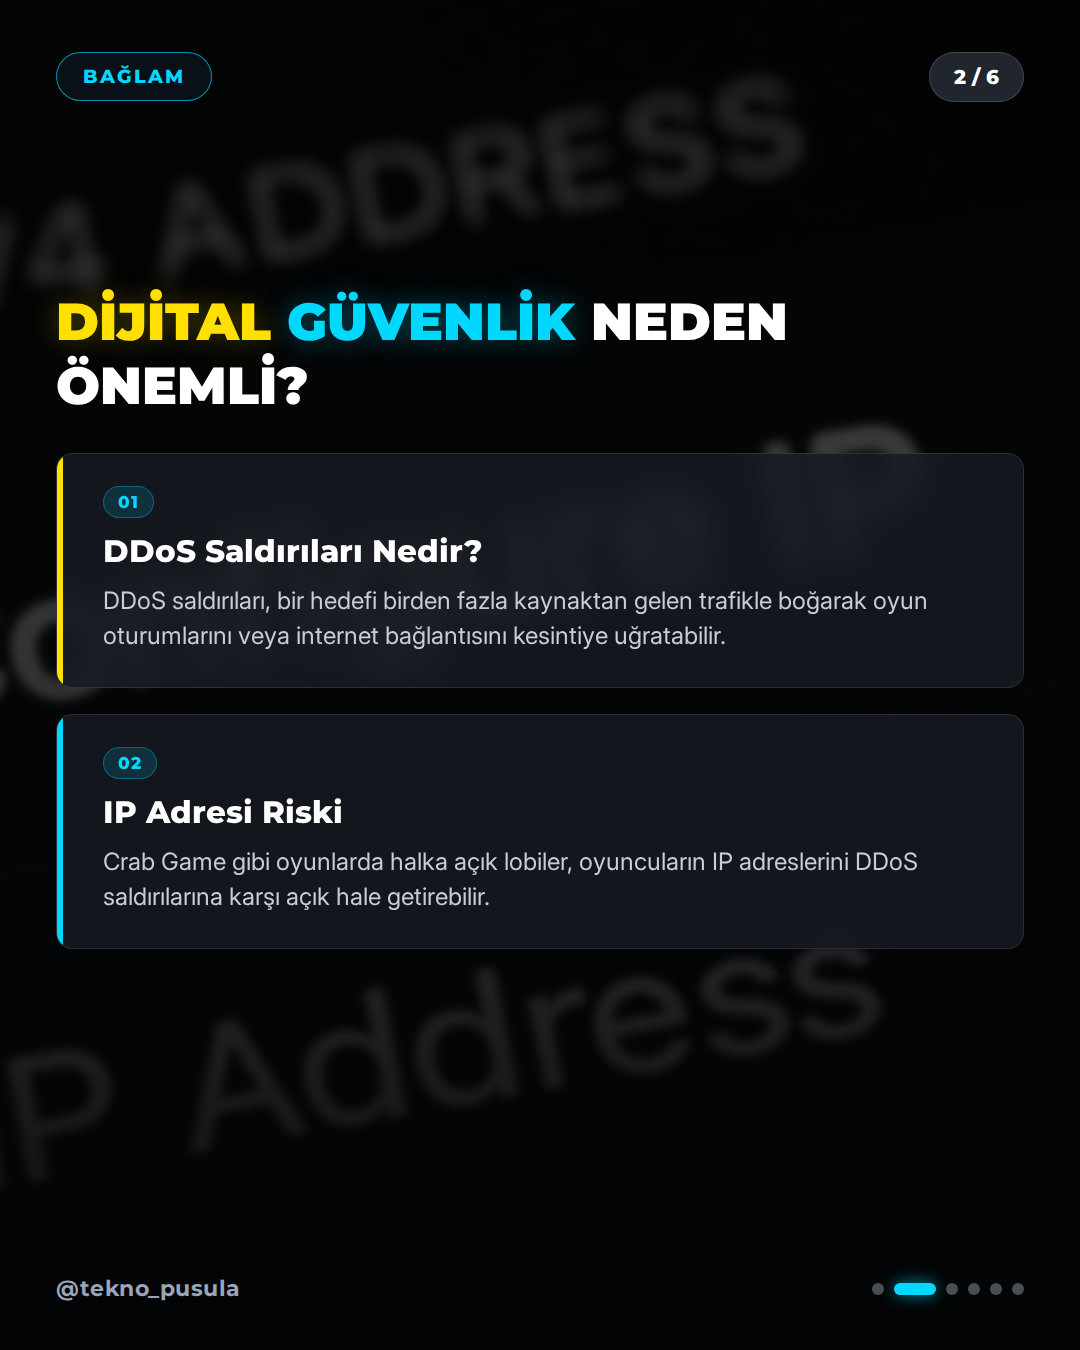
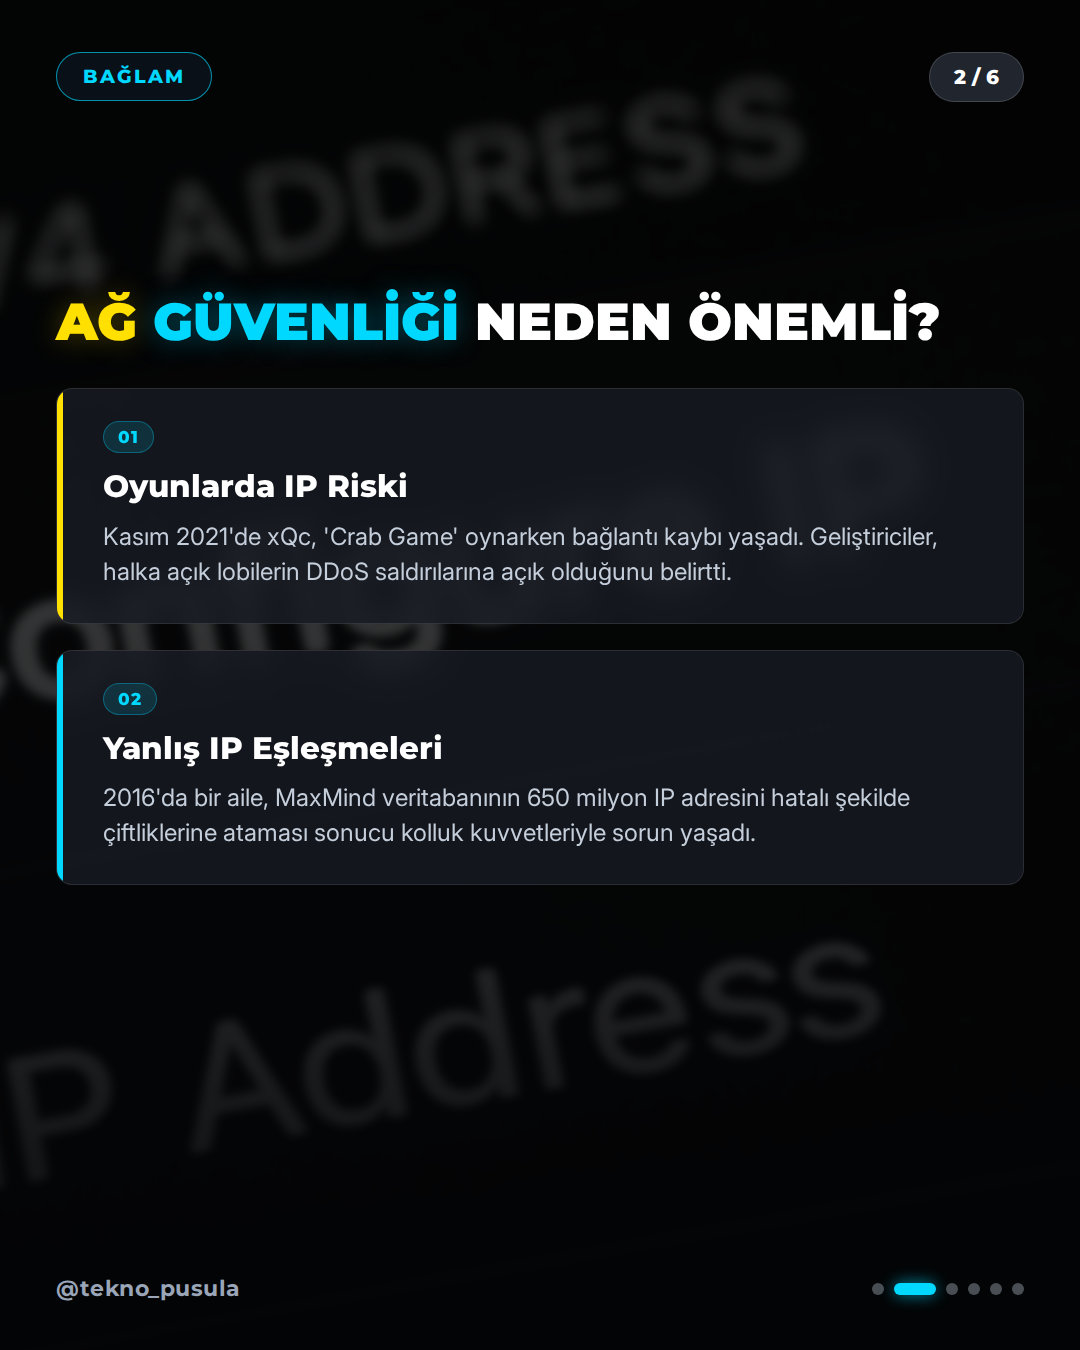
🤖 post: 2026-11-08 09:00 – Can a hacker really do anything with your IP address?

Changed region(s): [[0.0306, 0.2178, 0.8861, 0.6844], [0.7028, 0.28, 0.8861, 0.3422], [0.0306, 0.6533, 0.0611, 0.6844]]

diff --git a/output/2026-11-08/01-0900-can-a-hacker-really-do-anything-with-your-ip-add/verification.md b/output/2026-11-08/01-0900-can-a-hacker-really-do-anything-with-your-ip-add/verification.md
@@ -3,7 +3,7 @@
 **Haber:** Can a hacker really do anything with your IP address?
 **Canonical URL:** https://www.engadget.com/2306218/can-hackers-do-anything-with-ip-address/
 **Kaynaklar:** Engadget, The Verge, Wired, Ars Technica
-**Kontrol zamanı:** 2026-11-08T17:07:43+03:00
+**Kontrol zamanı:** 2026-11-08T17:12:31+03:00
 **Sonuç:** ✅ YAYINLANABİLİR
 
 ---
@@ -16,37 +16,39 @@
   - [https://www.engadget.com/2306218/can-hackers-do-anything-with-ip-address/](https://www.engadget.com/2306218/can-hackers-do-anything-with-ip-address/)
     > In November 2021, Twitch streamer xQc lost his internet connection shortly after playing "Crab Game."
 
-### 2. Crab Game'in geliştiricisi, oyunun oyuncuların IP adreslerini DDoS saldırılarına karşı açık hale getirebileceğini keşfettikten sonra yayıncıları halka açık lobilerden kaçınmaları konusunda uyardı.
+### 2. Crab Game geliştiricisi, oyunun oyuncuların IP adreslerini DDoS saldırılarına karşı açık hale getirebileceğini keşfettikten sonra yayıncıları halka açık lobilerden kaçınmaları konusunda uyardı.
 - **Karar:** ✅ `supported`
 - **Kanıtlar:**
   - [https://www.engadget.com/2306218/can-hackers-do-anything-with-ip-address/](https://www.engadget.com/2306218/can-hackers-do-anything-with-ip-address/)
     > The game's developer then warned streamers to avoid public lobbies after discovering that the game could expose players' IP addresses to distributed denial-of-service (DDoS) attacks.
 
-### 3. 2016 yılında bir Kansaslı aile, MaxMind şirketine ait veritabanının yaklaşık 650 milyon ilgisiz IP adresini yanlışlıkla kendi çiftliklerine eşlemesi nedeniyle dava açtı.
+### 3. 2016 yılında Kansaslı bir aile, MaxMind'ın veritabanının yaklaşık 650 milyon ilgisiz IP adresini çiftliklerine ataması ve kolluk kuvvetlerinin sürekli ziyaretine yol açması nedeniyle şirkete dava açtı.
 - **Karar:** ✅ `supported`
 - **Kanıtlar:**
   - [https://www.engadget.com/2306218/can-hackers-do-anything-with-ip-address/](https://www.engadget.com/2306218/can-hackers-do-anything-with-ip-address/)
     > Back in 2016, a Kansas family sued MaxMind after its database mapped approximately 650 million unrelated IP addresses to their farm, prompting repeated law enforcement visits over incidents involving people elsewhere.
 
-### 4. DDoS saldırıları, bir hedefi birden fazla kaynaktan gelen trafikle boğarak oyun oturumlarını, video görüşmelerini veya ev internet bağlantısını kesintiye uğratabilir.
+### 4. Bluesky, sunucu kesintileri için DDoS saldırılarını sorumlu tuttu.
 - **Karar:** ✅ `supported`
 - **Kanıtlar:**
   - [https://www.engadget.com/2306218/can-hackers-do-anything-with-ip-address/](https://www.engadget.com/2306218/can-hackers-do-anything-with-ip-address/)
-    > A typical DDoS attack floods a target with traffic from multiple sources. It's the same kind of attack Bluesky blamed for its server outages, and on a smaller scale, it could interrupt gaming sessions, video calls, or even an entire household internet connection.
-
-### 5. Bir Reddit kullanıcısı, OpenWrt üzerinde IPv6'yı etkinleştirdiğinde, ev sunucusundaki uzak erişim ve dosya paylaşım portlarının ağ dışından erişilebilir olduğunu keşfetti.
-- **Karar:** ✅ `supported`
-- **Kanıtlar:**
+    > It's the same kind of attack Bluesky blamed for its server outages
   - [https://www.engadget.com/2306218/can-hackers-do-anything-with-ip-address/](https://www.engadget.com/2306218/can-hackers-do-anything-with-ip-address/)
-    > An OpenWrt user on Reddit turned on IPv6, tested their home server remotely, and discovered that their remote-access and file-sharing ports were reachable from outside the network.
+    > A typical DDoS attack floods a target with traffic from multiple sources. It's the same kind of attack Bluesky blamed for its server outages
 
-### 6. Ekim 2026'da Microsoft, Windows üzerindeki .NET uygulamalarında kod yürütülmesine izin verebilecek CVE-2026-105016 kodlu kritik bir QUIC güvenlik açığını duyurdu.
+### 5. Ekim 2026'da Microsoft, Windows üzerindeki .NET uygulamalarında kod yürütülmesine izin verebilecek QUIC uygulamasındaki kritik bir güvenlik açığı olan CVE-2026-105016'yı açıkladı.
 - **Karar:** ✅ `supported`
 - **Kanıtlar:**
   - [https://www.engadget.com/2306218/can-hackers-do-anything-with-ip-address/](https://www.engadget.com/2306218/can-hackers-do-anything-with-ip-address/)
     > In October 2026, Microsoft disclosed CVE-2026-105016, a critical vulnerability in its QUIC implementation. It could allow specially crafted IPv6 traffic to execute code in affected .NET applications on Windows.
 
-### 7. Microsoft, IPv6'nın kapatılmasının bazı Windows bileşenlerinde sorunlara yol açabileceğini belirtmektedir.
+### 6. Bir OpenWrt kullanıcısı, IPv6'yı açtığında uzaktan erişim ve dosya paylaşım portlarının ağ dışından erişilebilir olduğunu keşfetti.
+- **Karar:** ✅ `supported`
+- **Kanıtlar:**
+  - [https://www.engadget.com/2306218/can-hackers-do-anything-with-ip-address/](https://www.engadget.com/2306218/can-hackers-do-anything-with-ip-address/)
+    > An OpenWrt user on Reddit turned on IPv6, tested their home server remotely, and discovered that their remote-access and file-sharing ports were reachable from outside the network.
+
+### 7. Microsoft, IPv6'nın kapatılmasının bazı Windows bileşenlerinde sorunlara yol açabileceğini belirtti.
 - **Karar:** ✅ `supported`
 - **Kanıtlar:**
   - [https://www.engadget.com/2306218/can-hackers-do-anything-with-ip-address/](https://www.engadget.com/2306218/can-hackers-do-anything-with-ip-address/)
@@ -59,11 +61,11 @@
 | İddia | 1. Tur | 2. Tur | Nihai |
 |-------|--------|--------|-------|
 | Kasım 2021'de Twitch yayıncısı xQc, 'Crab Game' oynadıktan k | supported | supported | supported |
-| Crab Game'in geliştiricisi, oyunun oyuncuların IP adreslerin | supported | supported | supported |
-| 2016 yılında bir Kansaslı aile, MaxMind şirketine ait verita | supported | supported | supported |
-| DDoS saldırıları, bir hedefi birden fazla kaynaktan gelen tr | supported | supported | supported |
-| Bir Reddit kullanıcısı, OpenWrt üzerinde IPv6'yı etkinleştir | supported | supported | supported |
+| Crab Game geliştiricisi, oyunun oyuncuların IP adreslerini D | supported | supported | supported |
+| 2016 yılında Kansaslı bir aile, MaxMind'ın veritabanının yak | supported | supported | supported |
+| Bluesky, sunucu kesintileri için DDoS saldırılarını sorumlu  | supported | supported | supported |
 | Ekim 2026'da Microsoft, Windows üzerindeki .NET uygulamaları | supported | supported | supported |
+| Bir OpenWrt kullanıcısı, IPv6'yı açtığında uzaktan erişim ve | supported | supported | supported |
 | Microsoft, IPv6'nın kapatılmasının bazı Windows bileşenlerin | supported | supported | supported |
 
 ## Kaynak Metinleri

diff --git a/output/2026-11-08/01-0900-can-a-hacker-really-do-anything-with-your-ip-add/captions.md b/output/2026-11-08/01-0900-can-a-hacker-really-do-anything-with-your-ip-add/captions.md
@@ -2,37 +2,29 @@
 
 ## INSTAGRAM
 
-Dijital dünyada güvende olduğunuzu mu sanıyorsunuz? IP adresiniz ve ağ açıklarınız, oyunlardan kurumsal sistemlere kadar her an hedef olabilir. Özellikle oyun dünyasında DDoS saldırıları ve yanlış yapılandırılmış IPv6 ayarları, bağlantınızı bir anda kesebilir. 
+Dijital dünyada IP adresiniz sandığınız kadar özel olmayabilir mi? 🌐 Oyun lobilerinden ev ağlarına kadar, ağ güvenliği artık sadece profesyonellerin değil, hepimizin meselesi. 650 milyon IP adresinin hatalı eşleştiği bir dünyada, dijital ayak izimizi korumak kritik bir öneme sahip. DDoS saldırıları, yanlış yapılandırılmış IPv6 ayarları ve yazılım açıkları... Hepsi bağlantınızı riske atabilir. Peki, siz ağ güvenliğinizi korumak için en etkili yöntemi uyguluyor musunuz? Yorumlarda buluşalım! Kaynak: Wired, Ars Technica
 
-Sadece oyunlar değil, Windows sistemlerindeki kritik açıklar da (CVE-2026-105016 gibi) ciddi riskler taşıyor. Veri eşleme hatalarının bile masum kullanıcıları nasıl hedef haline getirdiğini gördük. 
-
-Ev ağınızda IPv6 güvenliğini kontrol ettiniz mi? Tekno Pusula ile dijital risklerden haberdar kalın. 
-
-Kaynak: Wired, Ars Technica
-
-#SiberGüvenlik #İnternetGüvenliği #DDoS #IPv6 #TeknolojiHaberleri #AğGüvenliği #CyberSecurity #TechNews #IPSecurity #TeknoPusula
+#SiberGüvenlik #AğGüvenliği #IPAdresi #Teknoloji #DijitalGüvenlik #DDoS #IPv6 #CyberSecurity #NetworkSecurity #TechNews #TeknoPusula
 
 ## TIKTOK
 
-Oyun oynarken internetiniz neden kesiliyor? IP adresiniz sızdırılıyor olabilir! ⚠ DDoS saldırıları ve IPv6 açıkları dijital güvenliğinizi tehdit ediyor. Windows kullanıcıları için kritik uyarılar var. Ev ağınızı korumak için ne yapmalı? Detaylar Tekno Pusula'da. Kaynak: Wired, Ars Technica
+IP adresiniz sizi ele veriyor olabilir mi? ⚠ Oyunlarda yaşanan DDoS saldırılarından, yanlış IP eşleşmelerine kadar ağ güvenliğinin karanlık yüzüne bakıyoruz. Dijital dünyada güvende kalmak için nelere dikkat etmelisiniz? Detaylar videoda! Kaynak: Wired, Ars Technica
 
-#SiberGüvenlik #OyunDünyası #Teknoloji #IPAdresi #Güvenlik #TeknoPusula
+#SiberGüvenlik #AğGüvenliği #Teknoloji #IPAdresi #CyberSecurity #TeknoPusula
 
 ## X
 
-IP adresiniz ve ağ açıklarınız dijital güvenliğiniz için büyük risk! DDoS saldırıları ve Windows'taki kritik açıklar (CVE-2026-105016) kapıda. Ev ağınızda IPv6 güvenliğini kontrol ettiniz mi? 
-
-Kaynak: Wired, Ars Technica
+Dijital dünyada IP ve ağ güvenliği sandığınızdan daha kritik. 650 milyon hatalı IP eşleşmesi ve DDoS saldırıları, bağlantı güvenliğinin önemini artırıyor. Peki siz ağınızı nasıl koruyorsunuz? Kaynak: Wired, Ars Technica #SiberGüvenlik #Teknoloji
 
 #SiberGüvenlik #Teknoloji
 
 ## THREADS
 
-Dijital Güvenlikte Kritik Riskler 🛡
+Dijital Dünyada IP ve Ağ Güvenliği 🌐
 
-IP adresiniz ve ağ açıklarınız, oyunlardan kurumsal yazılımlara kadar her an hedef olabilir. Özellikle yanlış yapılandırılmış IPv6 ayarları ve DDoS saldırıları, bağlantınızı bir anda kesebilir.
+Oyun lobilerinden ev ağlarına kadar, yanlış yapılandırmalar ve açıklar kişisel verilerinizi riske atabilir. 650 milyon IP adresinin hatalı eşleştiği bir dünyada, dijital güvenliğinizi hafife almayın.
 
-Siz ev ağınızda IPv6 güvenliğini kontrol ettiniz mi? 💭
+Sizce ağ güvenliğinizi korumak için en etkili yöntem nedir? 💭
 
 Kaynak: Wired, Ars Technica
 
@@ -40,22 +32,12 @@ Kaynak: Wired, Ars Technica
 
 ## LINKEDIN
 
-Dijital altyapı güvenliği, günümüzde sadece kurumsal değil, bireysel kullanıcılar için de kritik bir öneme sahip. Özellikle oyun dünyasındaki IP sızıntıları ve DDoS saldırıları, ağ güvenliğinin ne kadar kırılgan olabileceğini gösteriyor.
+Dijital altyapıların güvenliği, günümüzde bireysel ve kurumsal düzeyde en kritik önceliklerden biri haline geldi. 650 milyon IP adresinin hatalı eşleşmesi gibi veri tabanı hataları veya Windows tabanlı sistemlerdeki CVE-2026-105016 gibi açıklar, ağ güvenliğinin ne kadar hassas olduğunu kanıtlıyor. Özellikle IPv6 yapılandırmaları ve DDoS saldırılarına karşı alınan önlemler, dijital varlıklarımızı korumak için stratejik bir öneme sahip. Sektörel olarak ağ güvenliği standartlarını nasıl daha ileri taşıyabiliriz? Görüşlerinizi bekliyorum. Kaynak: Wired, Ars Technica, Engadget, The Verge
 
-Teknik tarafta ise IPv6 yapılandırmaları ve Windows sistemlerindeki kritik açıklar (CVE-2026-105016), sistem yöneticileri ve yazılım geliştiriciler için yakından takip edilmesi gereken konular arasında. Veri eşleme hatalarının bile kullanıcıları nasıl risk altına sokabildiğini unutmamalıyız.
-
-Sektörel olarak güncellemeleri takip etmek ve ağ güvenliğini proaktif bir şekilde yönetmek artık bir zorunluluk. Siz ağ güvenliğiniz için hangi önlemleri alıyorsunuz?
-
-Kaynak: Wired, Ars Technica
-
-#SiberGüvenlik #AğGüvenliği #BilgiGüvenliği #Teknoloji #ITSecurity
+#SiberGüvenlik #AğGüvenliği #BilgiGüvenliği #Teknoloji #CyberSecurity
 
 ## FACEBOOK
 
-İnternet güvenliğinde kritik riskler kapıda! Oyun dünyasından kurumsal yazılımlara kadar IP adresiniz ve ağ açıklarınız dijital güvenliğinizi tehdit ediyor. DDoS saldırıları ve yanlış yapılandırılmış IPv6 ayarları, bağlantınızı bir anda kesebilir.
+Dijital dünyada IP ve ağ güvenliği sandığınızdan daha önemli! 🌐 Oyun lobilerinden ev ağlarına kadar, yanlış yapılandırmalar ve yazılım açıkları bağlantınızı riske atabilir. 650 milyon hatalı IP eşleşmesi, dijital ayak izimizin ne kadar hassas olduğunu gösteriyor. Sizce ağ güvenliğinizi korumak için en etkili yöntem nedir? Yorumlarda tartışalım. Kaynak: Wired, Ars Technica
 
-Windows sistemlerindeki yeni açıklar ve veri eşleme hataları, herkesin dikkat etmesi gereken konular arasında. Siz ev ağınızda IPv6 güvenliğini kontrol ettiniz mi? Tekno Pusula ile dijital dünyadaki güncel risklerden haberdar kalın.
-
-Kaynak: Wired, Ars Technica
-
-#SiberGüvenlik #İnternetGüvenliği #Teknoloji #AğGüvenliği #TeknoPusula
+#SiberGüvenlik #AğGüvenliği #Teknoloji #DijitalGüvenlik #TeknoPusula
